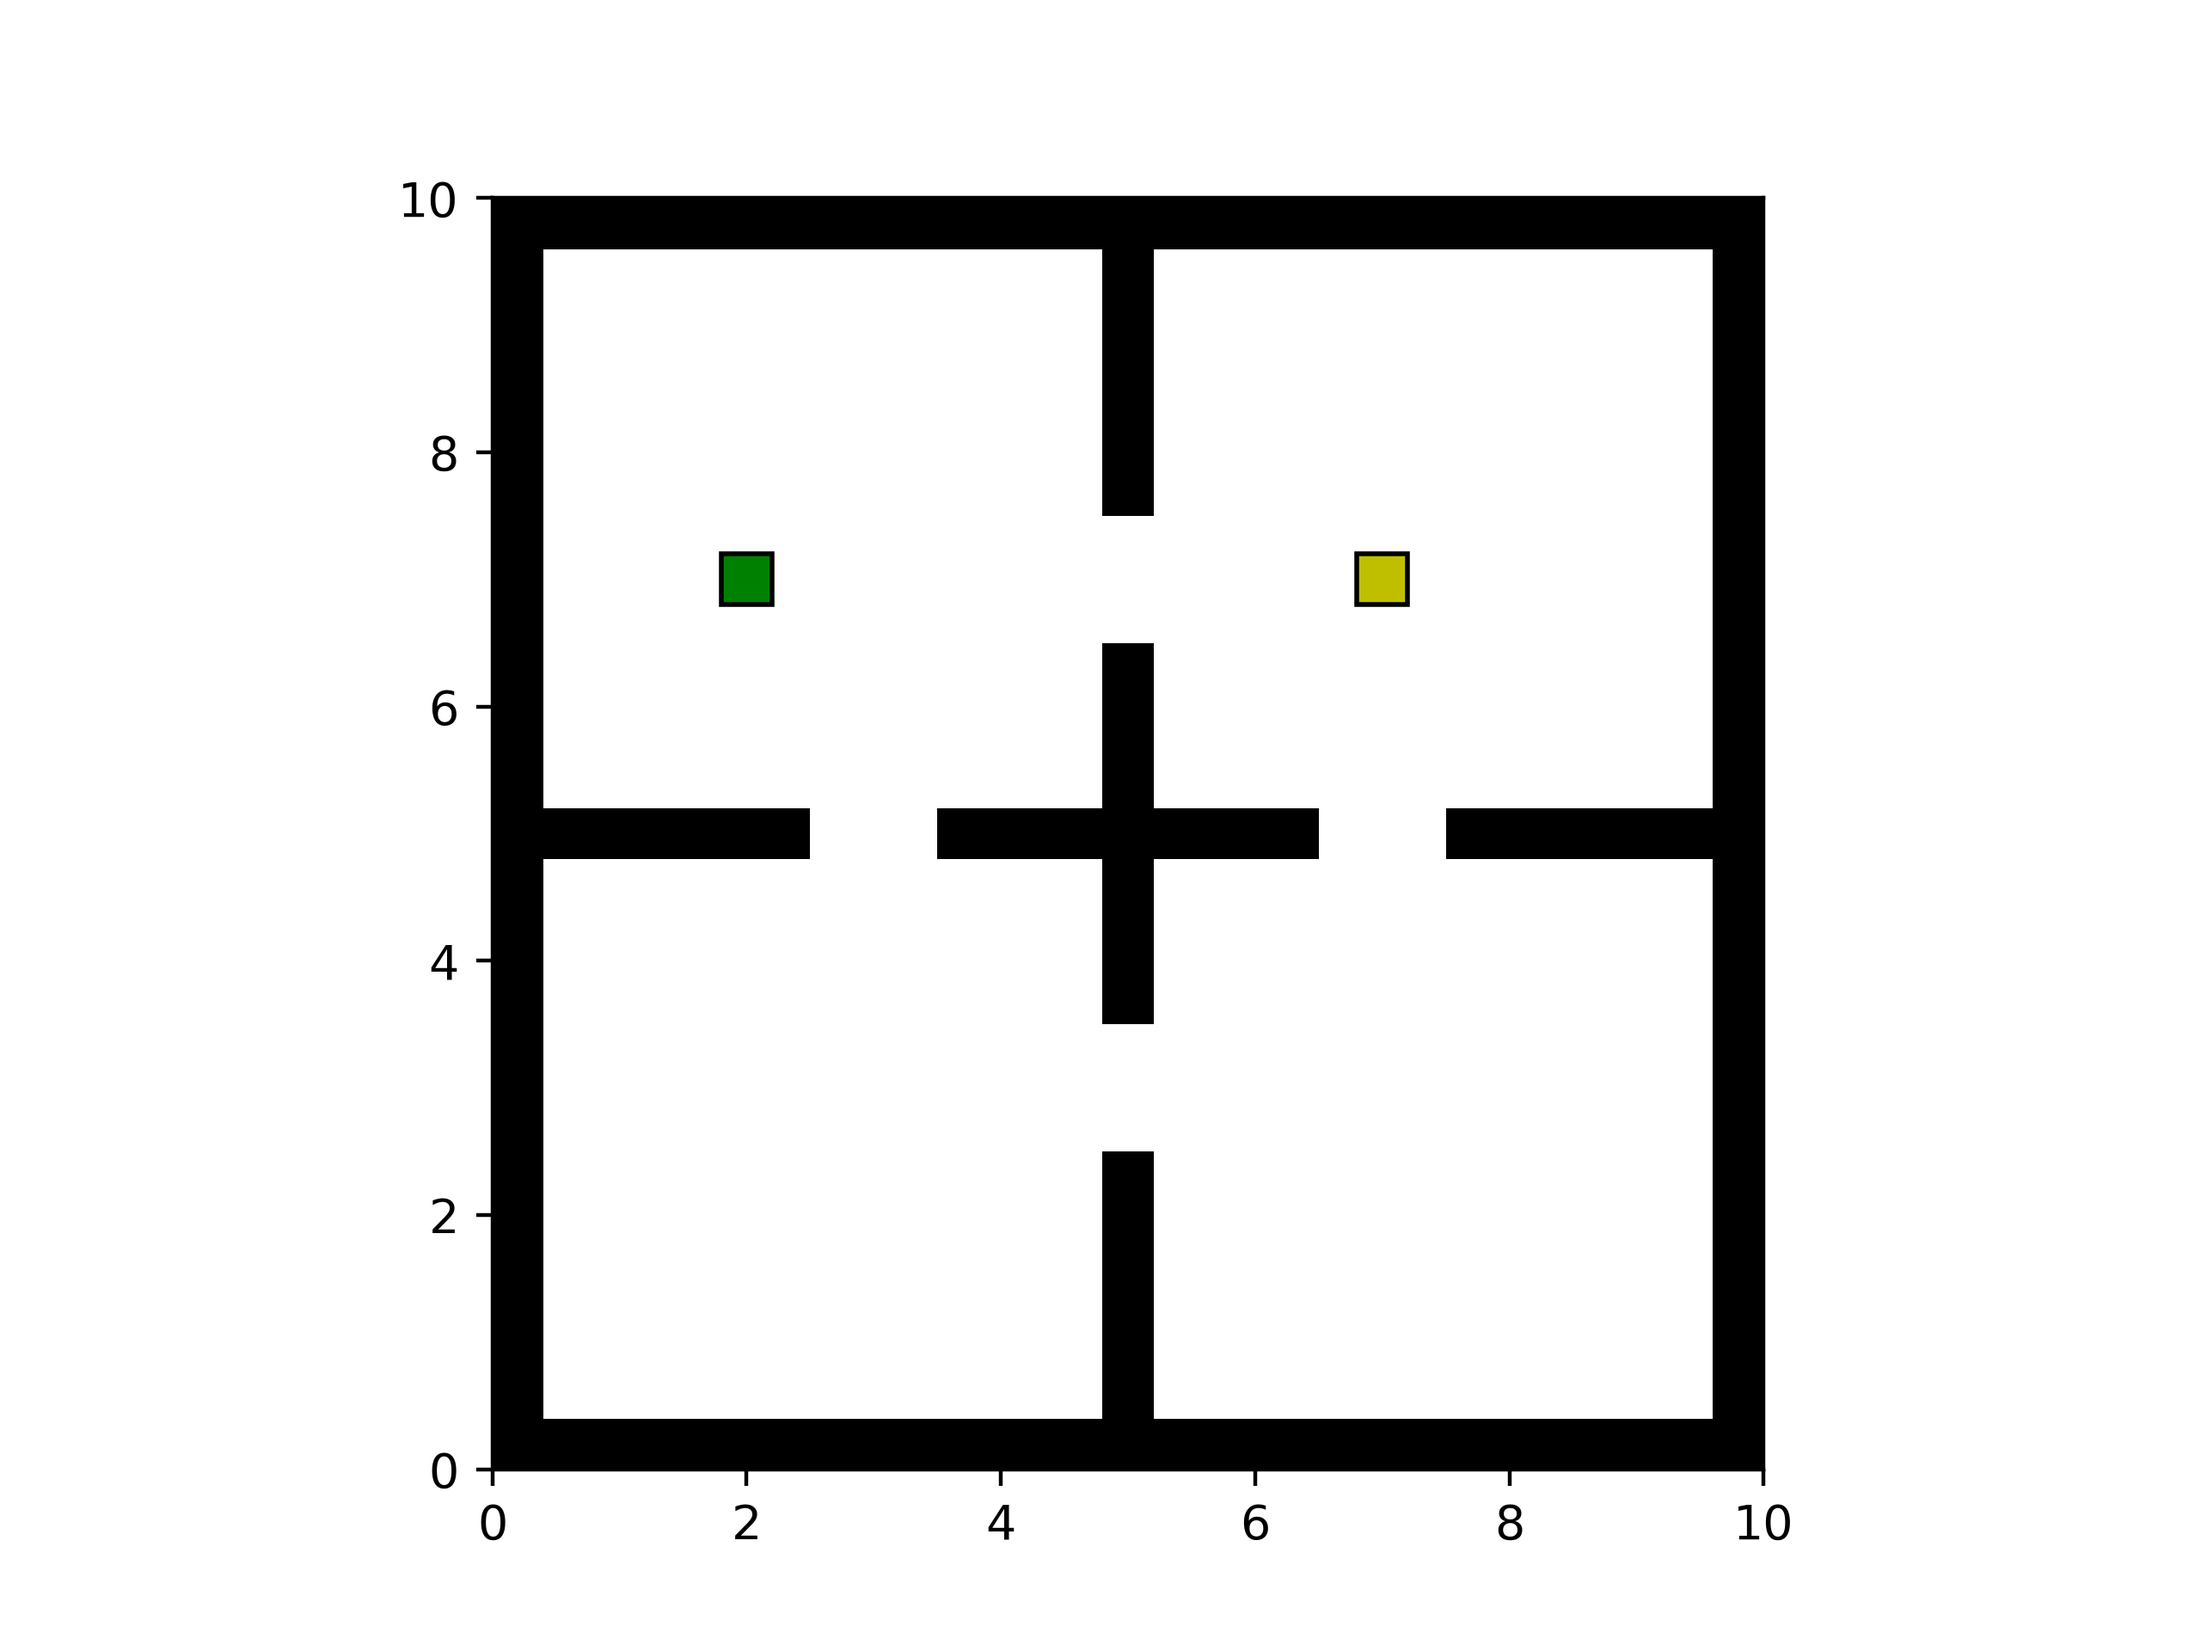
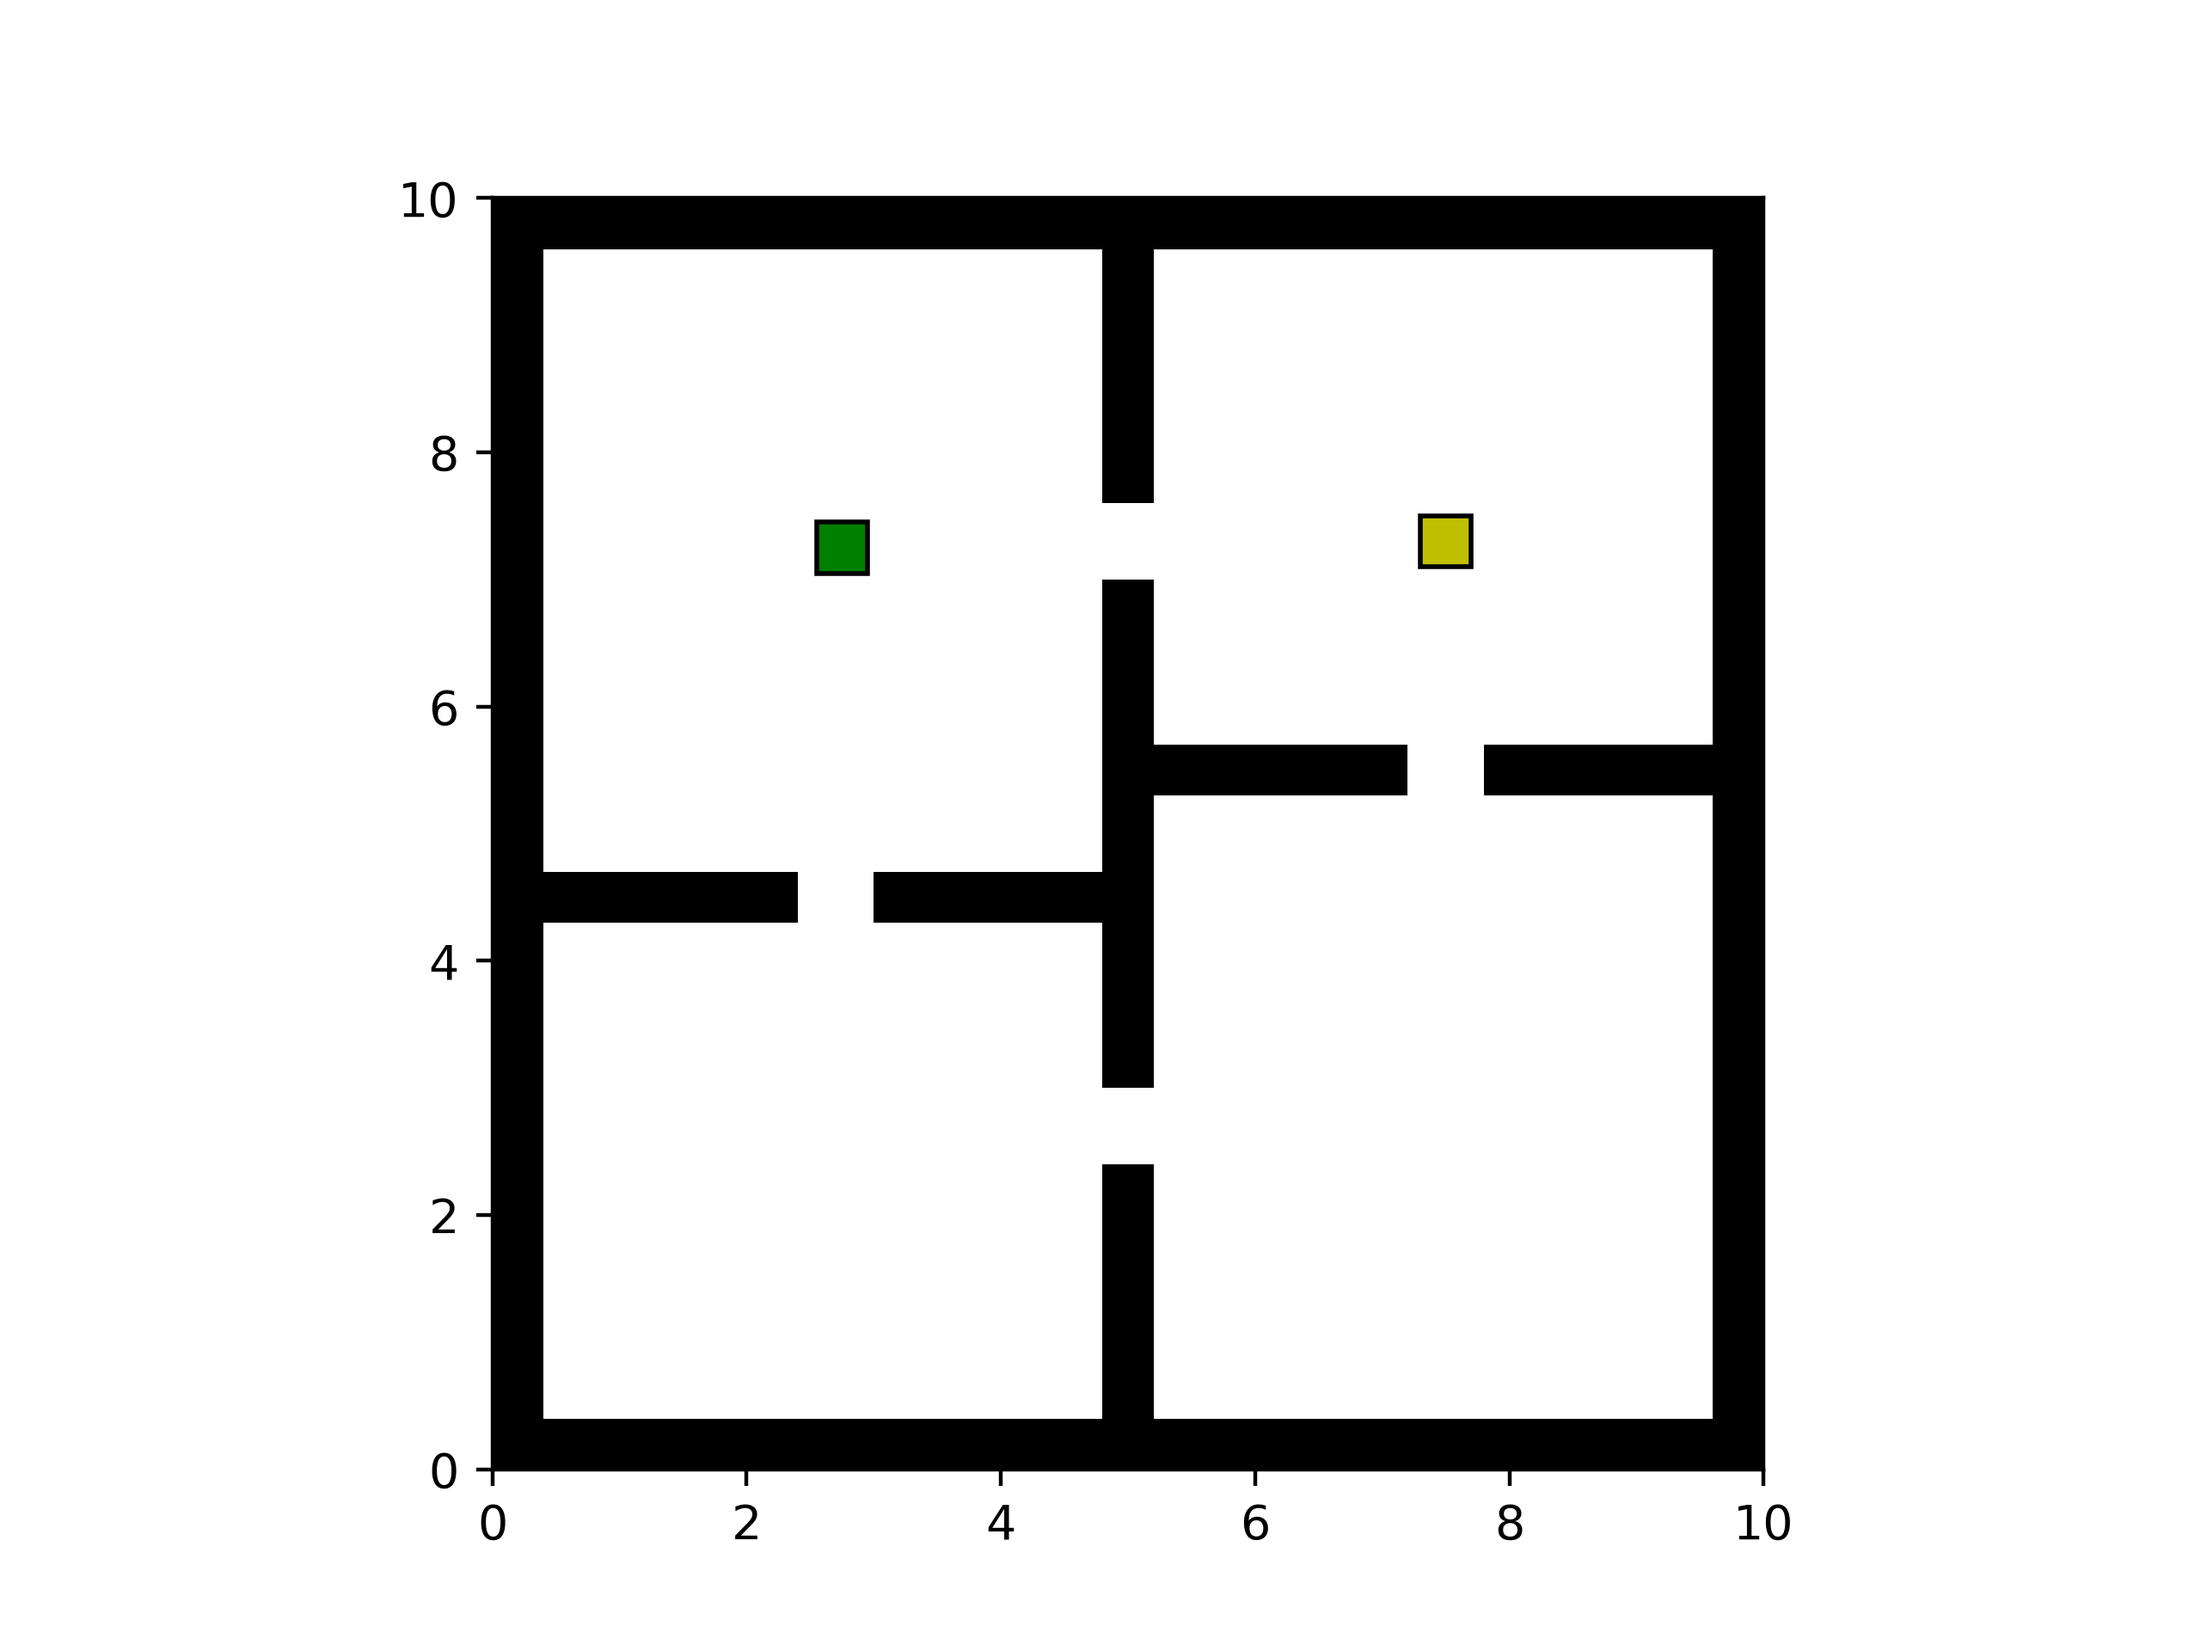
created FourRooms env and modified documentation

diff --git a/continuous_gridworld/envs.py b/continuous_gridworld/envs.py
@@ -1,0 +1,78 @@
+from continuous_gridworld.env     import GridWorld, Grid
+from continuous_gridworld.patches import RectanglePatch
+
+class FourRoomsSym(GridWorld):
+
+    def __init__(self, terminal_states, initial_states = None):
+        width  = 0.4
+        gap    = width * 3 / 2
+        length = (10 - 2 * width - 2 * gap) / 4
+
+        border = [[(0, 0), 10, width],
+                  [(0, 0), width, 10],
+                  [(10 - width, 0), width, 10],
+                  [(0, 10 - width), 10, width]]
+
+        left   = [[(width, 5 - width / 2), length, width],
+                  [(width + length + gap, 5 - width / 2), length, width]]
+        
+        right  = [[(5 + width / 2, 5 - width / 2), length, width],
+                  [(5 + width / 2 + length + gap, 5 - width / 2), length, width]]
+
+
+        bottom = [[(5 - width / 2, width), width, length],
+                  [(5 - width / 2, width + length + gap), width, length]]
+
+        top    = [[(5 - width / 2, 5), width, length],
+                  [(5 - width / 2, 5 + length + gap), width, length]]
+
+        walls  = border + left + right + bottom + top
+
+        for reward, state, kwargs in terminal_states:
+            assert isinstance(reward, (int, float))
+            assert isinstance(state , (list, tuple)) and len(state) == 2
+            assert isinstance(kwargs, dict)
+
+        super().__init__(grid            = Grid(10, 10, walls),
+                         agent           = RectanglePatch((2.75, 7.25), width, width, fc = 'g', ec = 'k'),
+                         terminal_states = [(reward, RectanglePatch(loc, width, width, **kwargs)) for reward, loc, kwargs in terminal_states], 
+                         initial_states  = initial_states)
+
+class FourRooms(GridWorld):
+
+    def __init__(self, terminal_states, initial_states = None):
+        width  = 0.4
+        gap    = width * 3 / 2
+        length = (10 - 2 * width - 2 * gap) / 4
+
+        border = [[(0, 0), 10, width],
+                  [(0, 0), width, 10],
+                  [(10 - width, 0), width, 10],
+                  [(0, 10 - width), 10, width]]
+
+        left   = [[(width, 4.5 - width / 2), length, width],
+                  [(width + length + gap, 4.5 - width / 2), length, width]]
+        
+        right  = [[(5 + width / 2, 5.5 - width / 2), length, width],
+                  [(5 + width / 2 + length + gap, 5.5 - width / 2), length, width]]
+
+
+        bottom = [[(5 - width / 2, width), width, length],
+                  [(5 - width / 2, width + length + gap), width, length]]
+
+        top    = [[(5 - width / 2, 5), width, length],
+                  [(5 - width / 2, 5 + length + gap), width, length]]
+
+        walls  = border + left + right + bottom + top
+
+        assert isinstance(terminal_states, (list, tuple))
+
+        for reward, state, kwargs in terminal_states:
+            assert isinstance(reward, (int, float))
+            assert isinstance(state , (list, tuple)) and len(state) == 2
+            assert isinstance(kwargs, dict)
+
+        super().__init__(grid            = Grid(10, 10, walls),
+                         agent           = RectanglePatch((2.75, 7.25), width, width, fc = 'g', ec = 'k'),
+                         terminal_states = [(reward, RectanglePatch(loc, width, width, **kwargs)) for reward, loc, kwargs in terminal_states], 
+                         initial_states  = initial_states)

diff --git a/demo.py b/demo.py
@@ -1,7 +1,6 @@
-from   continuous_gridworld         import Grid, GridWorld
-from   continuous_gridworld.patches import RectanglePatch
+from   continuous_gridworld.envs import FourRooms
 
-from   matplotlib                   import pyplot as plt, animation
+from   matplotlib                import pyplot as plt, animation
 
 import numpy as np
 
@@ -33,59 +32,44 @@ def animate(gridworld, locs, interval = 50, wall_count = False):
 
     return anim
 
-width = 0.4
+reward = 10
+loc    = (7.5, 7.3)
+kwargs = dict(fc = 'y', ec = 'k')
 
-walls = [[(0, 0), 10, width],
-         [(0, 0), width, 10],
-         [(10 - width, 0), width, 10],
-         [(0, 10 - width), 10, width],
-         [(0, 5 - width / 2), 2.5, width],
-         [(3.5, 5 - width / 2), 3, width],
-         [(7.5, 5 - width / 2), 2.5, width],
-         [(5 - width / 2, 0), width, 2.5],
-         [(5 - width / 2, 3.5), width, 3],
-         [(5 - width / 2, 7.5), width, 2.5]]
+states = [[reward, loc, kwargs]]
 
-agent_patch     = RectanglePatch((2, 7), width, width, fc = 'g', ec = 'k')
-gold_patch      = RectanglePatch((7, 7), width, width, fc = 'y', ec = 'k')
+env    = FourRooms(terminal_states = states)
 
-rewards         = [10]
-patches         = [gold_patch]
-terminal_states = list(zip(rewards, patches))
-
-grid            = Grid(10, 10, walls)
-gridworld       = GridWorld(grid, agent_patch, terminal_states)
-
-gridworld.render()
+env.render()
 
 plt.savefig('four-rooms.png', dpi = 400)
 
 np.random.seed(12)
 
-locs     = [gridworld.reset()]
-terminal = gridworld.terminal
+locs     = [env.reset()]
+terminal = env.terminal
 
 while not terminal:
-    action = np.clip(gridworld.terminal_states[0][1].loc - locs[-1], -0.05, 0.05)
-    reward, state, terminal = gridworld.step(action)
+    action = np.clip(env.terminal_states[0][1].loc - locs[-1], -0.05, 0.05)
+    reward, state, terminal = env.step(action)
     locs.append(state)
     
-anim = animate(gridworld, locs)
+anim = animate(env, locs)
 
 anim.save('four-rooms-get-gold.gif')
 
 np.random.seed(12)
 
-locs  = [gridworld.reset()]
+locs  = [env.reset()]
 count = 0
 while count < 20:
-    reward, state, terminal = gridworld.step((-0.05, 0.02))
+    reward, state, terminal = env.step((-0.05, 0.02))
 
     # check to see if new state is same as old state (i.e. move into wall)
     count += (state == locs[-1]).any()
     
     locs.append(state)
     
-anim = animate(gridworld, locs, interval = 100, wall_count = True)
+anim = animate(env, locs, interval = 100, wall_count = True)
 
 anim.save('four-rooms-to-wall.gif')

diff --git a/continuous_gridworld/env.py b/continuous_gridworld/env.py
@@ -8,7 +8,7 @@ import numpy as np
 
 class Grid(Base):
 
-    def __init__(self, x, y, walls, fc = 'k', lw = 0.01, figsize = None):
+    def __init__(self, x, y, walls, fc = 'k', lw = 0.01):
         super().__init__(locals())
 
     def _gather_walls(self):
@@ -18,8 +18,8 @@ class Grid(Base):
             walls.append(wall)
         return walls
         
-    def _render_skeleton(self):
-        (fig, ax) = (self.fig, self.ax) = plt.subplots(figsize = self.figsize)
+    def _render_skeleton(self, figsize):
+        (fig, ax) = (self.fig, self.ax) = plt.subplots(figsize = figsize)
 
         ax.set_xlim((0, self.x))
         ax.set_ylim((0, self.y))
@@ -35,8 +35,8 @@ class Grid(Base):
             ret.append(obj.patch)
         return ret
 
-    def render(self, *objects):
-        self._render_skeleton()
+    def render(self, *objects, figsize = None):
+        self._render_skeleton(figsize)
         patches = self._gather_patches(objects)
         for patch in patches:
             self.ax.add_patch(patch)

diff --git a/README.md b/README.md
@@ -5,37 +5,21 @@ A simple continuous gridworld environment constructor.
 ## Usage
 
 ```python
-from   continuous_gridworld         import Grid, GridWorld
-from   continuous_gridworld.patches import RectanglePatch
+from   continuous_gridworld.envs import FourRooms
 
-from   matplotlib                   import pyplot as plt, animation
+from   matplotlib                import pyplot as plt, animation
 
 import numpy as np
 
-width = 0.4
+reward = 10
+loc    = (7.5, 7.3)
+kwargs = dict(fc = 'y', ec = 'k')
 
-walls = [[(0, 0), 10, width],
-         [(0, 0), width, 10],
-         [(10 - width, 0), width, 10],
-         [(0, 10 - width), 10, width],
-         [(0, 5 - width / 2), 2.5, width],
-         [(3.5, 5 - width / 2), 3, width],
-         [(7.5, 5 - width / 2), 2.5, width],
-         [(5 - width / 2, 0), width, 2.5],
-         [(5 - width / 2, 3.5), width, 3],
-         [(5 - width / 2, 7.5), width, 2.5]]
+states = [[reward, loc, kwargs]]
 
-agent_patch     = RectanglePatch((2, 7), width, width, fc = 'g', ec = 'k')
-gold_patch      = RectanglePatch((7, 7), width, width, fc = 'y', ec = 'k')
+env    = FourRooms(terminal_states = states)
 
-rewards         = [10]
-patches         = [gold_patch]
-terminal_states = list(zip(rewards, patches))
-
-grid            = Grid(10, 10, walls)
-gridworld       = GridWorld(grid, agent_patch, terminal_states)
-
-gridworld.render()
+env.render()
 ```
 <p align="center">
   <img src="four-rooms.png" alt="animated" style="height:480px"/>
@@ -85,15 +69,17 @@ def animate(gridworld, locs, interval = 50, wall_count = False):
 ```python
 np.random.seed(12)
 
-locs     = [gridworld.reset()]
-terminal = gridworld.terminal
+locs     = [env.reset()]
+terminal = env.terminal
 
 while not terminal:
-    action = np.clip(gridworld.terminal_states[0][1].loc - locs[-1], -0.05, 0.05)
-    reward, state, terminal = gridworld.step(action)
+    action = np.clip(env.terminal_states[0][1].loc - locs[-1], -0.05, 0.05)
+    reward, state, terminal = env.step(action)
     locs.append(state)
     
-anim = animate(gridworld, locs)
+anim = animate(env, locs)
+
+anim.save('four-rooms-get-gold.gif')
 ```
 
 <p align="center">
@@ -109,17 +95,19 @@ anim = animate(gridworld, locs)
 ```python
 np.random.seed(12)
 
-locs  = [gridworld.reset()]
+locs  = [env.reset()]
 count = 0
 while count < 20:
-    reward, state, terminal = gridworld.step((-0.05, 0.02))
+    reward, state, terminal = env.step((-0.05, 0.02))
 
     # check to see if new state is same as old state (i.e. move into wall)
     count += (state == locs[-1]).any()
     
     locs.append(state)
     
-anim = animate(gridworld, locs, interval = 100, wall_count = True)
+anim = animate(env, locs, interval = 100, wall_count = True)
+
+anim.save('four-rooms-to-wall.gif')
 ```
 <p align="center">
   <img src="four-rooms-to-wall.gif" alt="animated" />
